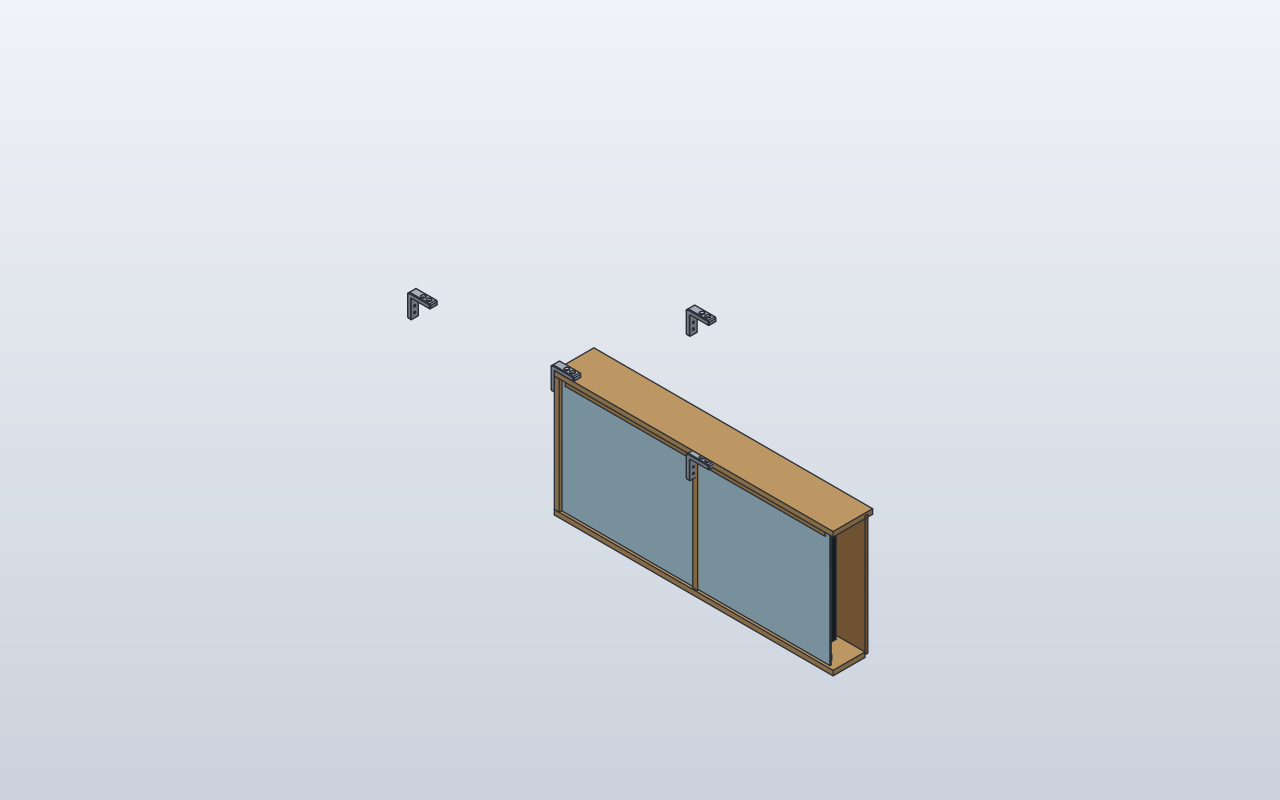
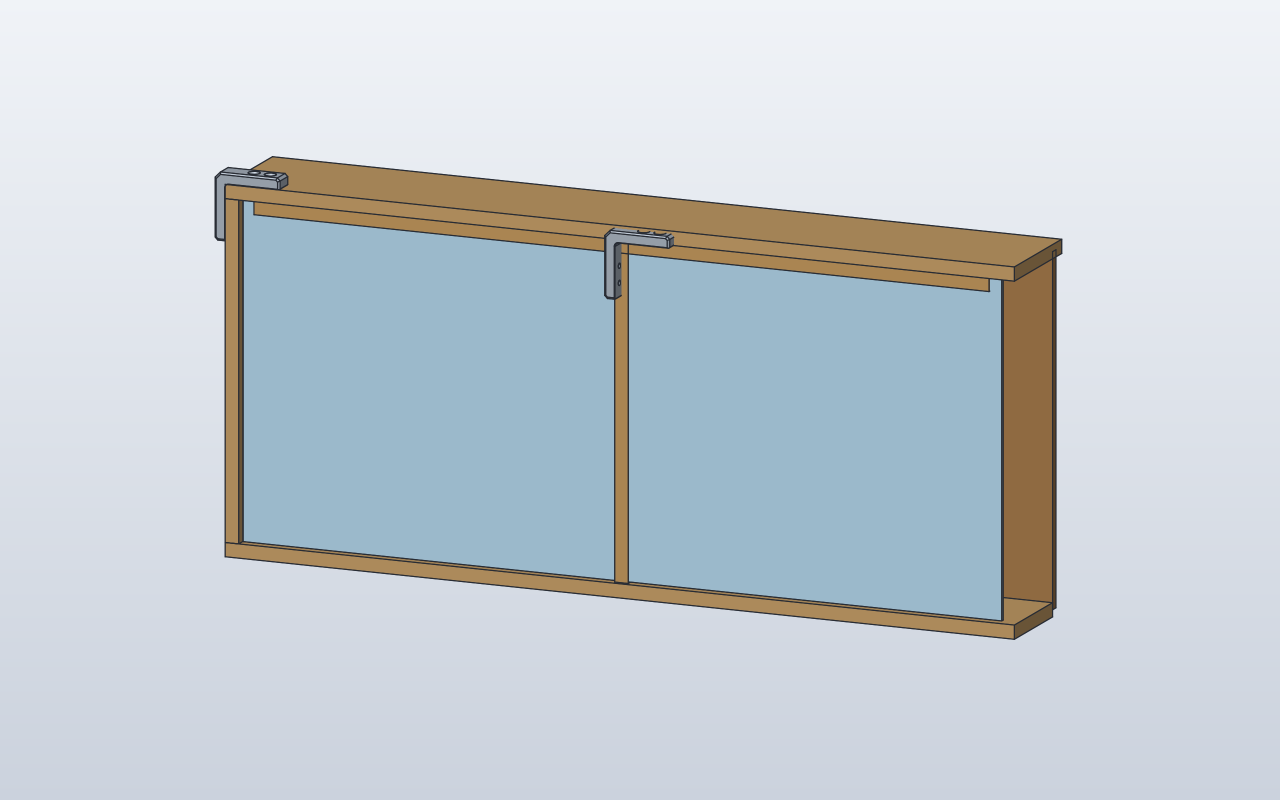
Verified SolidCraft CAD website at e207bf09185be52f8cb7ce185edfc321e7cee80d e207bf09185be52f8cb7ce185edfc321e7cee80d

diff --git a/models/hub75-wood-frame/index.html b/models/hub75-wood-frame/index.html
@@ -12,8 +12,8 @@
 <h1>WoodenHub75BasicBox</h1><p>Upright wooden enclosure with real four-hole corner brackets</p></div></section>
 <main class="wrap"><div class="metadata"><span class="badge verified">Native verified · snapshot from matching run</span>
 <span class="badge">146 commands</span><span class="badge">Overall 874 × 392 mm; window 840 × 360 × 4 mm; five nominal 160 mm-pitch panels</span></div>
-<div class="two"><section class="panel"><h2>Model preview</h2><div class="picture"><img src="native.png" alt="SolidCraft CAD render"></div>
-<p class="small muted">Native SolidCraft image, matching this source revision.</p>
+<div class="two model-preview-layout"><section class="panel"><h2>Model preview</h2><div class="picture"><a class="preview-fullsize" href="native.png" target="_blank" rel="noopener noreferrer" aria-label="Open native CAD screenshot at full size"><img src="native.png" alt="Native SolidCraft CAD model, full-size image available"></a></div>
+<p class="small muted">Native SolidCraft image, matching this source revision. Click to view full size.</p>
 <p>Basic Box prototype with five lightweight HUB75 envelopes, 15 mm plywood sides/bottom/roof, a 9 mm back, a 4 mm window, four real four-hole corner brackets and four 15 × 15 mm wooden glazing retainers. The detailed rear PCB and electronic bays belong to the advanced panel model. Hardware dimensions and fit remain to be validated.</p></section>
 <section class="panel"><h2>Files</h2><p>Download the source and the generated command plan.</p>
 <div class="links"><a class="btn" href="model.py">SCPF source</a><a class="btn secondary" href="solidcraft.json">Command JSON</a>

diff --git a/models/hub75-screen/index.html b/models/hub75-screen/index.html
@@ -12,8 +12,8 @@
 <h1>BasicHub75Screen</h1><p>Five shared native HUB75 occurrences with two 180° rotations</p></div></section>
 <main class="wrap"><div class="metadata"><span class="badge verified">Native verified · snapshot from matching run</span>
 <span class="badge">45 commands</span><span class="badge">Five 159.70 × 319.71 × 14.50 mm panels; X pitch 160 mm</span></div>
-<div class="two"><section class="panel"><h2>Model preview</h2><div class="picture"><img src="native.png" alt="SolidCraft CAD render"></div>
-<p class="small muted">Native SolidCraft image, matching this source revision.</p>
+<div class="two model-preview-layout"><section class="panel"><h2>Model preview</h2><div class="picture"><a class="preview-fullsize" href="native.png" target="_blank" rel="noopener noreferrer" aria-label="Open native CAD screenshot at full size"><img src="native.png" alt="Native SolidCraft CAD model, full-size image available"></a></div>
+<p class="small muted">Native SolidCraft image, matching this source revision. Click to view full size.</p>
 <p>Five panels on the source project&#x27;s 800 × 320 mm nominal grid. One rear-tapered, four-bay panel component is reused at X=−320, −160, 0, 160 and 320 mm. Columns 2 and 4 rotate 180° about the local depth axis for the rear data chain. R5 corners, detailed rear reinforcements, PCB and connectors remain future phases.</p></section>
 <section class="panel"><h2>Files</h2><p>Download the source and the generated command plan.</p>
 <div class="links"><a class="btn" href="model.py">SCPF source</a><a class="btn secondary" href="solidcraft.json">Command JSON</a>

diff --git a/models/hub75-panel/index.html b/models/hub75-panel/index.html
@@ -12,8 +12,8 @@
 <h1>TwoHub75Panels</h1><p>Two occurrences of one measured P5 HUB75 panel component</p></div></section>
 <main class="wrap"><div class="metadata"><span class="badge verified">Native verified · snapshot from matching run</span>
 <span class="badge">40 commands</span><span class="badge">159.70 × 319.71 × 14.50 mm; six Ø3 holes; two occurrences at 160 mm pitch</span></div>
-<div class="two"><section class="panel"><h2>Model preview</h2><div class="picture"><img src="native.png" alt="SolidCraft CAD render"></div>
-<p class="small muted">Native SolidCraft image, matching this source revision.</p>
+<div class="two model-preview-layout"><section class="panel"><h2>Model preview</h2><div class="picture"><a class="preview-fullsize" href="native.png" target="_blank" rel="noopener noreferrer" aria-label="Open native CAD screenshot at full size"><img src="native.png" alt="Native SolidCraft CAD model, full-size image available"></a></div>
+<p class="small muted">Native SolidCraft image, matching this source revision. Click to view full size.</p>
 <p>First reusable panel assembly from the existing OpenSCAD reference: a 159.70 × 319.71 × 14.50 mm envelope with four rear pockets, six rear-side blind Ø3 mounting-hole centres and a grey housing material. Two native occurrences at 160 mm pitch; rear-step/rounding details, PCB and connectors are future steps.</p></section>
 <section class="panel"><h2>Files</h2><p>Download the source and the generated command plan.</p>
 <div class="links"><a class="btn" href="model.py">SCPF source</a><a class="btn secondary" href="solidcraft.json">Command JSON</a>

diff --git a/models/corner-bracket/index.html b/models/corner-bracket/index.html
@@ -12,8 +12,8 @@
 <h1>CornerBracket</h1><p>24 mm plywood corner bracket with four countersunk mounting holes</p></div></section>
 <main class="wrap"><div class="metadata"><span class="badge verified">Native verified · snapshot from matching run</span>
 <span class="badge">30 commands</span><span class="badge">24 mm width, 12 mm wall, 60 mm arms; four Ø5.4 mm holes</span></div>
-<div class="two"><section class="panel"><h2>Model preview</h2><div class="picture"><img src="native.png" alt="SolidCraft CAD render"></div>
-<p class="small muted">Native SolidCraft image, matching this source revision.</p>
+<div class="two model-preview-layout"><section class="panel"><h2>Model preview</h2><div class="picture"><a class="preview-fullsize" href="native.png" target="_blank" rel="noopener noreferrer" aria-label="Open native CAD screenshot at full size"><img src="native.png" alt="Native SolidCraft CAD model, full-size image available"></a></div>
+<p class="small muted">Native SolidCraft image, matching this source revision. Click to view full size.</p>
 <p>One shared CornerBracket definition is used by this standalone model and the wooden HUB75 enclosure. Current 90° countersinks approximate the older flat-bottom screw-seat recess; see the bracket README for remaining geometry differences.</p></section>
 <section class="panel"><h2>Files</h2><p>Download the source and the generated command plan.</p>
 <div class="links"><a class="btn" href="model.py">SCPF source</a><a class="btn secondary" href="solidcraft.json">Command JSON</a>

diff --git a/models/sample-plate/index.html b/models/sample-plate/index.html
@@ -12,8 +12,8 @@
 <h1>SamplePlate</h1><p>Original four-sketch history: Base, Holes, Boss, Bore</p></div></section>
 <main class="wrap"><div class="metadata"><span class="badge verified">Native verified · snapshot from matching run</span>
 <span class="badge">21 commands</span><span class="badge">80 × 50 × 8 mm; R6; Ø24 × 14 boss</span></div>
-<div class="two"><section class="panel"><h2>Model preview</h2><div class="picture"><img src="native.png" alt="SolidCraft CAD render"></div>
-<p class="small muted">Native SolidCraft image, matching this source revision.</p>
+<div class="two model-preview-layout"><section class="panel"><h2>Model preview</h2><div class="picture"><a class="preview-fullsize" href="native.png" target="_blank" rel="noopener noreferrer" aria-label="Open native CAD screenshot at full size"><img src="native.png" alt="Native SolidCraft CAD model, full-size image available"></a></div>
+<p class="small muted">Native SolidCraft image, matching this source revision. Click to view full size.</p>
 <p>Recreates the original saved SolidCraft construction history with four named sketches and sketch-based cuts. The object-level Hole and Cylinder intent is compiled to the four editable sketches and matching cut/join history.</p></section>
 <section class="panel"><h2>Files</h2><p>Download the source and the generated command plan.</p>
 <div class="links"><a class="btn" href="model.py">SCPF source</a><a class="btn secondary" href="solidcraft.json">Command JSON</a>

diff --git a/models/plastic-enclosure-pi/index.html b/models/plastic-enclosure-pi/index.html
@@ -12,8 +12,8 @@
 <h1>Plastic Enclosure Pi</h1><p>Raspberry Pi 4 case with connectors, vents and engraving</p></div></section>
 <main class="wrap"><div class="metadata"><span class="badge verified">Native verified · snapshot from matching run</span>
 <span class="badge">39 commands</span><span class="badge">95 × 66 × 24 mm; R5; PETG; 4 × M2.5 standoffs</span></div>
-<div class="two"><section class="panel"><h2>Model preview</h2><div class="picture"><img src="native.png" alt="SolidCraft CAD render"></div>
-<p class="small muted">Native SolidCraft image, matching this source revision.</p>
+<div class="two model-preview-layout"><section class="panel"><h2>Model preview</h2><div class="picture"><a class="preview-fullsize" href="native.png" target="_blank" rel="noopener noreferrer" aria-label="Open native CAD screenshot at full size"><img src="native.png" alt="Native SolidCraft CAD model, full-size image available"></a></div>
+<p class="small muted">Native SolidCraft image, matching this source revision. Click to view full size.</p>
 <p>Reconstructs the Raspberry Pi 4 video using a rounded open-top shell, mounting bosses, connector cuts, floor vents, Pi 4 lettering and PETG material.</p></section>
 <section class="panel"><h2>Files</h2><p>Download the source and the generated command plan.</p>
 <div class="links"><a class="btn" href="model.py">SCPF source</a><a class="btn secondary" href="solidcraft.json">Command JSON</a>

diff --git a/models/plastic-enclosure/index.html b/models/plastic-enclosure/index.html
@@ -12,8 +12,8 @@
 <h1>Plastic Enclosure</h1><p>A shelled enclosure with native plastic design features</p></div></section>
 <main class="wrap"><div class="metadata"><span class="badge verified">Native verified · snapshot from matching run</span>
 <span class="badge">14 commands</span><span class="badge">80 × 50 × 30 mm; 2 mm wall; two Ø7 × 12 bosses</span></div>
-<div class="two"><section class="panel"><h2>Model preview</h2><div class="picture"><img src="native.png" alt="SolidCraft CAD render"></div>
-<p class="small muted">Native SolidCraft image, matching this source revision.</p>
+<div class="two model-preview-layout"><section class="panel"><h2>Model preview</h2><div class="picture"><a class="preview-fullsize" href="native.png" target="_blank" rel="noopener noreferrer" aria-label="Open native CAD screenshot at full size"><img src="native.png" alt="Native SolidCraft CAD model, full-size image available"></a></div>
+<p class="small muted">Native SolidCraft image, matching this source revision. Click to view full size.</p>
 <p>Rebuilds the supplied enclosure with the normal SCPF Box sketch/extrusion, followed by native Shell, Lip, Snap Fit, Boss and Rest features.</p></section>
 <section class="panel"><h2>Files</h2><p>Download the source and the generated command plan.</p>
 <div class="links"><a class="btn" href="model.py">SCPF source</a><a class="btn secondary" href="solidcraft.json">Command JSON</a>

diff --git a/models/csg-cube/index.html b/models/csg-cube/index.html
@@ -12,8 +12,8 @@
 <h1>CsgCube</h1><p>A box, sphere and three crossing bores</p></div></section>
 <main class="wrap"><div class="metadata"><span class="badge verified">Native verified · snapshot from matching run</span>
 <span class="badge">6 commands</span><span class="badge">50 mm cube; three crossing cylindrical cuts</span></div>
-<div class="two"><section class="panel"><h2>Model preview</h2><div class="picture"><img src="native.png" alt="SolidCraft CAD render"></div>
-<p class="small muted">Native SolidCraft image, matching this source revision.</p>
+<div class="two model-preview-layout"><section class="panel"><h2>Model preview</h2><div class="picture"><a class="preview-fullsize" href="native.png" target="_blank" rel="noopener noreferrer" aria-label="Open native CAD screenshot at full size"><img src="native.png" alt="Native SolidCraft CAD model, full-size image available"></a></div>
+<p class="small muted">Native SolidCraft image, matching this source revision. Click to view full size.</p>
 <p>A constructive solid geometry demonstration: intersect a cube with a sphere, then subtract cylinders along three axes.</p></section>
 <section class="panel"><h2>Files</h2><p>Download the source and the generated command plan.</p>
 <div class="links"><a class="btn" href="model.py">SCPF source</a><a class="btn secondary" href="solidcraft.json">Command JSON</a>

diff --git a/models/bracket/index.html b/models/bracket/index.html
@@ -12,8 +12,8 @@
 <h1>Bracket</h1><p>An L-shaped extrusion with two mounting holes</p></div></section>
 <main class="wrap"><div class="metadata"><span class="badge verified">Native verified · snapshot from matching run</span>
 <span class="badge">9 commands</span><span class="badge">60 mm wide; 6 mm wall; two Ø8 mm holes</span></div>
-<div class="two"><section class="panel"><h2>Model preview</h2><div class="picture"><img src="native.png" alt="SolidCraft CAD render"></div>
-<p class="small muted">Native SolidCraft image, matching this source revision.</p>
+<div class="two model-preview-layout"><section class="panel"><h2>Model preview</h2><div class="picture"><a class="preview-fullsize" href="native.png" target="_blank" rel="noopener noreferrer" aria-label="Open native CAD screenshot at full size"><img src="native.png" alt="Native SolidCraft CAD model, full-size image available"></a></div>
+<p class="small muted">Native SolidCraft image, matching this source revision. Click to view full size.</p>
 <p>An XZ polygon extruded along Y with an edge fillet and two native SolidCraft Hole features.</p></section>
 <section class="panel"><h2>Files</h2><p>Download the source and the generated command plan.</p>
 <div class="links"><a class="btn" href="model.py">SCPF source</a><a class="btn secondary" href="solidcraft.json">Command JSON</a>

diff --git a/models/plate/index.html b/models/plate/index.html
@@ -12,8 +12,8 @@
 <h1>Plate</h1><p>A rounded plate with four holes</p></div></section>
 <main class="wrap"><div class="metadata"><span class="badge verified">Native verified · snapshot from matching run</span>
 <span class="badge">12 commands</span><span class="badge">100 × 60 × 10 mm; four Ø8 mm holes</span></div>
-<div class="two"><section class="panel"><h2>Model preview</h2><div class="picture"><img src="native.png" alt="SolidCraft CAD render"></div>
-<p class="small muted">Native SolidCraft image, matching this source revision.</p>
+<div class="two model-preview-layout"><section class="panel"><h2>Model preview</h2><div class="picture"><a class="preview-fullsize" href="native.png" target="_blank" rel="noopener noreferrer" aria-label="Open native CAD screenshot at full size"><img src="native.png" alt="Native SolidCraft CAD model, full-size image available"></a></div>
+<p class="small muted">Native SolidCraft image, matching this source revision. Click to view full size.</p>
 <p>A feature-based plate: sketch, extrusion, four vertical fillets and a through-hole sketch.</p></section>
 <section class="panel"><h2>Files</h2><p>Download the source and the generated command plan.</p>
 <div class="links"><a class="btn" href="model.py">SCPF source</a><a class="btn secondary" href="solidcraft.json">Command JSON</a>

diff --git a/index.html b/index.html
@@ -59,7 +59,7 @@
 <h3>2 · Compile commands</h3><p>SCPF outputs native SolidCraft commands, with named parameters and a sequence of CAD operations.</p></section>
 <section class="panel"><h3>3 · Execute in SolidCraft</h3><p>The SolidCraft engine creates editable geometry, and CI validates its results. CAD and verification assets are only published when they match the source revision.</p>
 <h3>4 · Inspect the result</h3><p>Review the command timeline, native measurements and optional rendered preview. An unverified model is labelled as such.</p></section></div>
-<p class="small muted">CAD source revision: <code>04a40899b880efd249eb26e77e8ada718c21f6e9</code><br>
+<p class="small muted">CAD source revision: <code>e207bf09185be52f8cb7ce185edfc321e7cee80d</code><br>
 SCPF library revision: <a href="https://github.com/brainboxemb/lib.py.solidcraft/commit/aec569c3bbd53c8a7ba9b0ff4fb1d0065dcb38e4"><code>aec569c3bbd53c8a7ba9b0ff4fb1d0065dcb38e4</code></a></p></main><footer><div class="wrap"><strong>SolidCraft CAD</strong> renders and verifies the real geometry.
 <a href="https://brainboxemb.github.io/lib.py.solidcraft/">SCPF examples &amp; cheatsheet →</a></div></footer>
 </body></html>

diff --git a/results.css b/results.css
@@ -87,3 +87,33 @@ footer .wrap{display:flex;flex-wrap:wrap;justify-content:space-between;gap:14px}
   .hero.cad-hero>.wrap{padding:28px 24px;margin-top:20px}
   .two{grid-template-columns:1fr}
 }
+
+
+/* An image on a model-detail page is for INSPECTION, not a tiny card teaser.
+   Keep the catalog-card 205 px crop-free thumbnails compact. */
+.model-preview-layout{grid-template-columns:minmax(0,1.35fr) minmax(0,1fr)}
+.model-preview-layout .picture{
+  height:clamp(300px,38vw,475px);
+  border:1px solid var(--line);
+  border-radius:9px;
+  background:#f6f8fb;
+}
+.model-preview-layout .picture img{
+  width:100%;
+  height:100%;
+  object-fit:contain;
+}
+.model-preview-layout a.preview-fullsize{
+  display:block;
+  width:100%;
+  height:100%;
+  cursor:zoom-in;
+}
+.model-preview-layout a.preview-fullsize:focus-visible{
+  outline:3px solid var(--accent);
+  outline-offset:3px;
+}
+@media(max-width:760px){
+  .model-preview-layout{grid-template-columns:1fr}
+  .model-preview-layout .picture{height:clamp(260px,74vw,410px)}
+}
